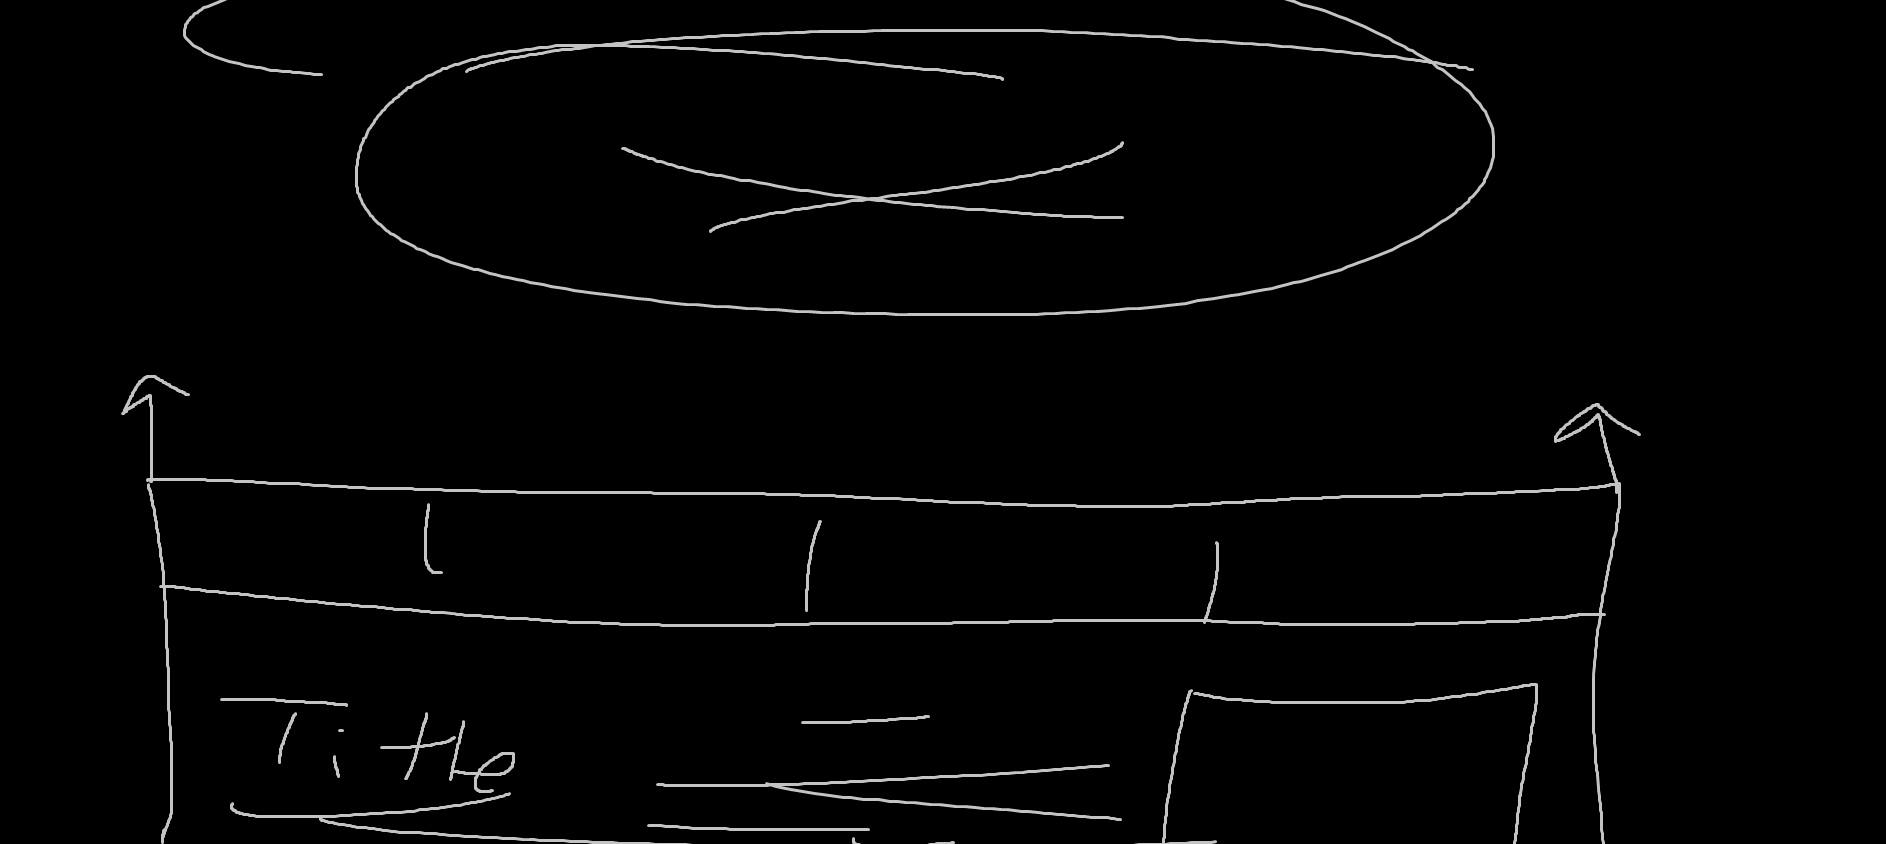
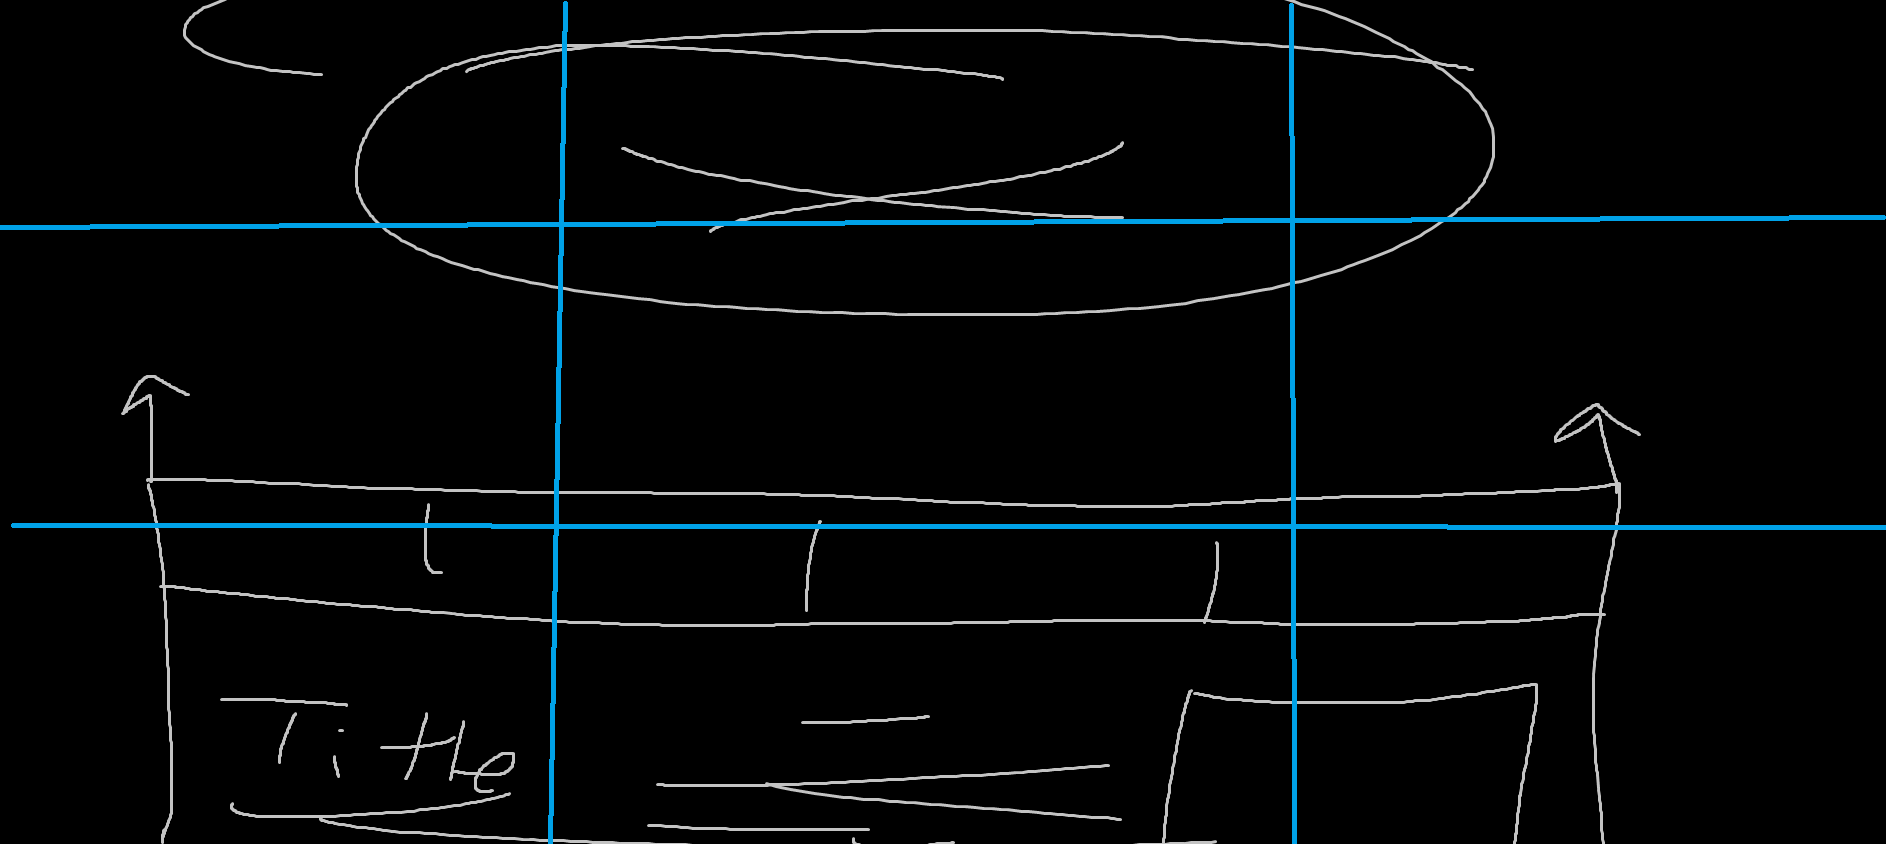
New Design
Annoted in the WorkLog.txt
TL;DR: Old layout looked weird. MAde new layout and have the shell.

Will need to do further adjustments some other day, my night is running short and I have work in the morning.

Changed region(s): [[0.0, 0.6161, 1.0, 0.6469], [0.0, 0.2464, 1.0, 0.2773]]

diff --git a/Site/index.css b/Site/index.css
@@ -1,105 +1,96 @@
 body{
 	background-color: black;
-	/*background: url(bg2.jpg); img from AQS' Room
-    background-size: contain, cover;
-	background-repeat: no-repeat; */
-	}
-.masterDiv{
-	background: url(bg2.jpg); /*img from AQS' Room*/
-    background-size:  cover;
-	background-repeat: no-repeat;
-	box-shadow: 0px 0px 8px 8px black inset;
-	
-	
-}
-
-.titleBG{
-	background: url(TdivBg.jpg); /*img from public domain */
-	background-size: cover;
-	opacity: 0.98;
-	height: 450px;
-	display: flex;
-	align-items: center;
-	justify-content: center;
-	
-
 	}
 
-.Tsection{
-	color: white;
-	text-align: center;
-	
+	.Master	{
+		background-color: White;
+		margin: 5px;
+		height: 1200px;
+		
 	}
-
-.desc{
-	display: inline;
-	color: white;
-	text-align: center;
+	.MasterTitle	{
+		background-color: Gray;
+		margin: 5px;
+		height: 200px;
 	}
-
-
-
-
-
-
-.AQcontentSize {
-	margin-left: 75px;
-	margin-right: 75px;
-	
+	.MasterReel	{
+		background-color: Gray;
+		margin: 5px;
+		height: 300px;
 	}
-  
-  
-.AQinline {
-	text-align: center;
-	color: white;
-	opacity: 1;
-
+	.MasterContent	{
+		background-color: Gray;
+		margin: 5px;
+		height: 700px;
 	}
-  
-.AQdark{
-	background-color: black;
-	opacity: 0.7;
-	height: 450px;
-
+	.HeaderBanner	{
+		background-color: Blue;
+		margin: 0;
+		height: 50px;
+		display: block;
 	}
-
-.AQmainContent{
-	background-color: white;
-	opacity: 0.9;
-	margin-top: 100px;
-	margin-bottom: 20px;
-	height: 700px;
-	
-	
+	.BlueContainer{
+		
+	}	
+	.NavBar	{
+		background-color: Blue;
+		margin: 5px;
+		height: 300px;
+		width:300px;
+		display: inline-block;
 	}
-
-
-ul {
-  	
-	display: flex;
-	justify-content: space-evenly;
-	list-style-type: none;
-	margin: 0;
-	padding: 15px;
-	overflow: hidden;
-	background-color: #333;
-}
-
-
-
-li a {
-	display: block;
-	height: 15px;
-	color: white;
-	text-align: center;
-	text-decoration: none;
-}
-
-li a:hover {
-	background-color: #111;
-}
-
-
-
-
-
+	.MainContent	{
+		background-color: Blue;
+		margin: 5px;
+		height: 500px;
+		width: 1200px;
+		display: inline-block;
+		
+	}
+	.TextContent	{
+		background-color: Pink;
+		margin: 5px;
+		height: 95%;
+		width:75%;
+		display: inline-block;
+	}
+	.ContentTitle	{
+		background-color: Orange;
+		margin: 5px;
+		height: 20%;
+	}
+	.ContentBody	{
+		background-color: Orange;
+		margin: 5px;
+		height: 70%;
+	}
+	.ImageContent	{
+		background-color: Pink;
+		margin: 5px;
+		height: 95%;
+		width: 20%;
+		
+		display: inline-block;
+	}
+	.Image	{
+		background-color: Green;
+		margin: 5px;
+		height: 70%;
+	}
+	.ImageCaption	{
+		background-color: Green;
+		margin: 5px;
+		height: 20%;
+	}
+	.Unassigned	{
+		background-color: Blue;
+		margin: 5px;
+		height: 300px;
+		width:300px;
+		display: inline-block;
+	}
+	.Footer	{
+		background-color: White;
+		margin: 5px;
+		height: 50px;
+	}

diff --git a/Site/index.html b/Site/index.html
@@ -8,53 +8,54 @@
 	<title>Welcome to my Portfolio</title>
 </head>
 <body>
-<div class="masterDiv">
-
-
-
-	<div class="AQcontentSize">   <!--Keep ALL of page centered (margin on L and R sides)-->
-		<div class="titleBG">
-			<div class="Tsection">
-			 <h1>AQS Project</h1>
-			</div>
-			<div class="desc">
-				<h3>Enter description here</h3>
-			</div>
+<!--Use SiteLayout.png to use as a Key Legend for the naming conventions-->
+	<div class="Master">
+		<div class="MasterTitle">
+		
 		</div>
+		<div class="MasterReel">
 		
-		
-		
-		
+		</div>
+		<div class="MasterContent">
+			<div class="HeaderBanner">
+			
+			</div>
+			
+<!--			<div class="BlueContainer">  -->
+					<div class="NavBar">
+					
+					</div>
+					<div class="MainContent">
+						<div class="TextContent">
+							<div class="ContentTitle">
+							
+							</div>
+							<div class="ContentBody">
+							
+							</div>
+							
+						</div>
+						<div class="ImageContent">
+							<div class="Image">
+							
+							</div>
+							<div class="ImageCaption">
+							
+							</div>
+						</div>
+						
+					</div>
+<!--			</div>	-->
+			
+			<div class="Unassigned"> <!--WhiteSpace as of now-->
+			
+			</div>
 
-		
-		
-		<div class="AQmainContent"> <!-- content page -->
-		
-		
-		<!-- Nav bar starts here -->
-		
-		<div>
-			<ul>
-			  <li><a href="#home">Home</a></li>
-			  <li><a href="#news">News</a></li>
-			  <li><a href="#contact">Contact</a></li>
-			  <li><a href="#about">About</a></li>
-			</ul>
-		</div>		
-		
-		<!-- Nav bar ends here -->
-		
-		
-		
+		</div>
 	</div>
-	
-	<div class="foot">
-		terms of service stuff
+	<div class="Footer">
+
 	</div>
-
-</div>		
-
-
 
 </body>
 </html>
